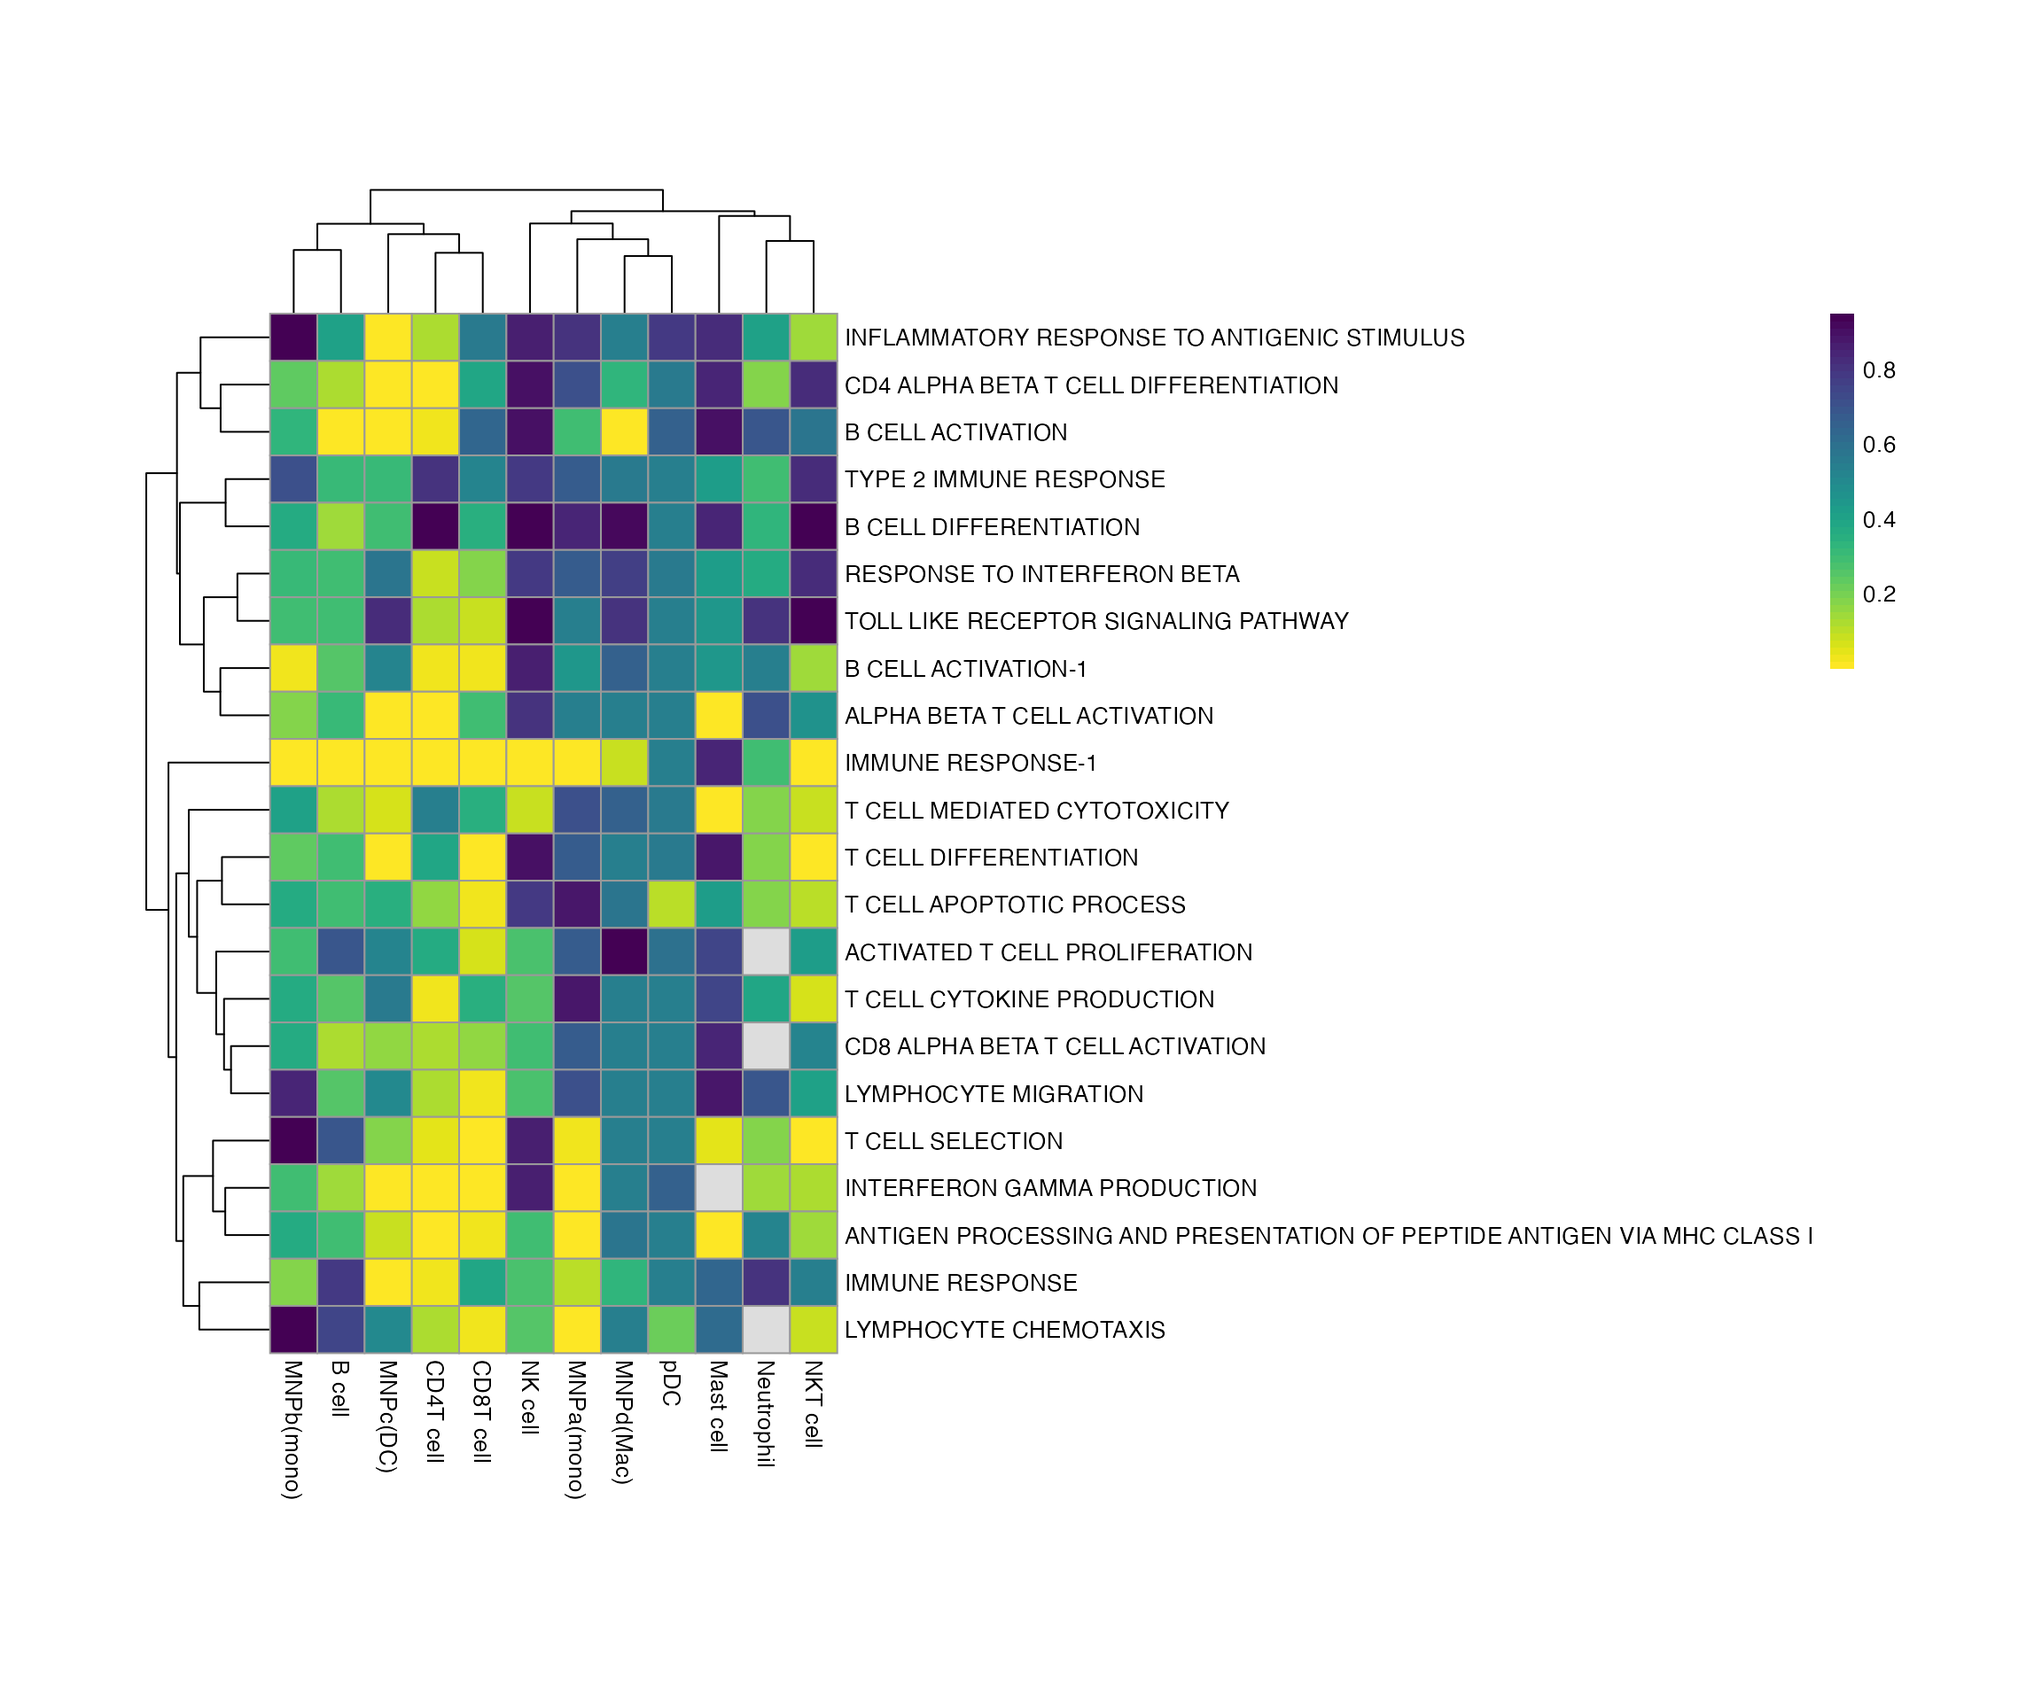
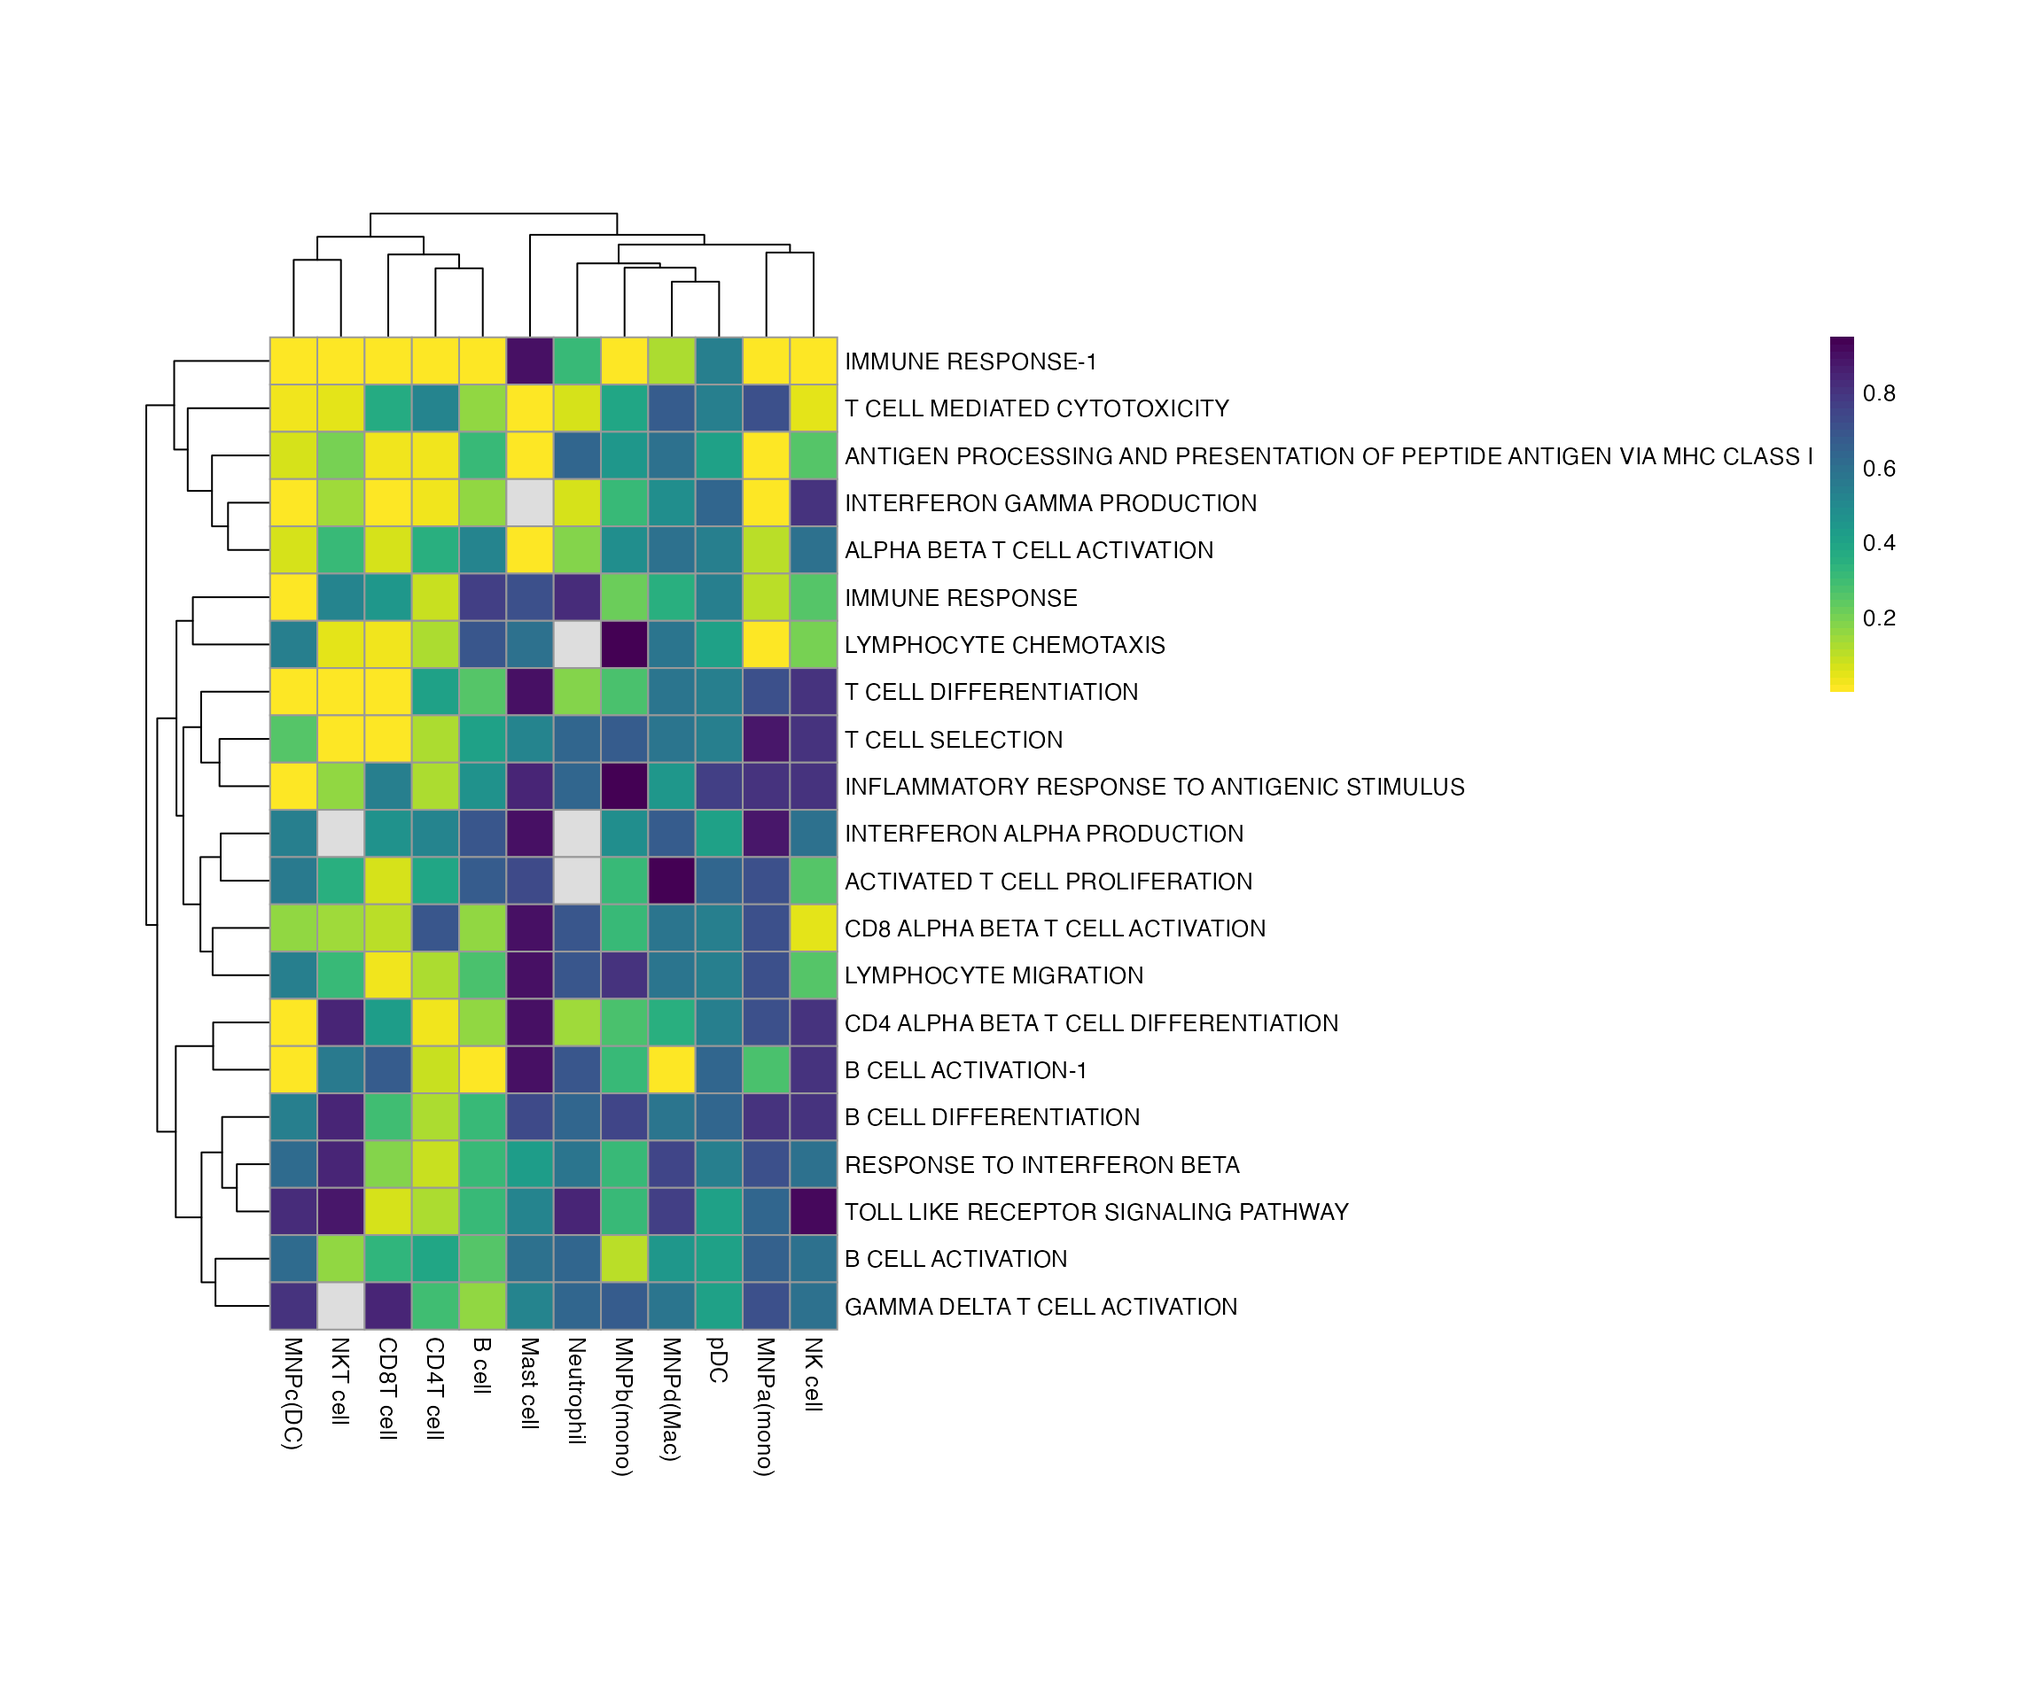
Built site for bowerbird: 0.0.2@3ac1d0c

diff --git a/articles/bowerbird_vignette.html b/articles/bowerbird_vignette.html
@@ -159,13 +159,7 @@
 <span class="va">bwr</span> <span class="op">&lt;-</span> <span class="fu">bower</span><span class="op">(</span><span class="va">geneset</span><span class="op">)</span>
 <span class="va">bwr</span> <span class="op">&lt;-</span> <span class="fu"><a href="../reference/snn_graph.html">snn_graph</a></span><span class="op">(</span><span class="va">bwr</span><span class="op">)</span>
 <span class="va">bwr</span> <span class="op">&lt;-</span> <span class="fu"><a href="../reference/find_clusters.html">find_clusters</a></span><span class="op">(</span><span class="va">bwr</span><span class="op">)</span>
-<span class="va">bwr</span> <span class="op">&lt;-</span> <span class="fu">summarize_clusters</span><span class="op">(</span><span class="va">bwr</span><span class="op">)</span>
-<span class="co">#&gt; Downloading udpipe model from https://raw.githubusercontent.com/jwijffels/udpipe.models.ud.2.5/master/inst/udpipe-ud-2.5-191206/english-ewt-ud-2.5-191206.udpipe to /var/folders/24/8k48jl6d249_n_qfxwsl6xvm0000gn/T//RtmpyaUieC/english-ewt-ud-2.5-191206.udpipe</span>
-<span class="co">#&gt;  - This model has been trained on version 2.5 of data from https://universaldependencies.org</span>
-<span class="co">#&gt;  - The model is distributed under the CC-BY-SA-NC license: https://creativecommons.org/licenses/by-nc-sa/4.0</span>
-<span class="co">#&gt;  - Visit https://github.com/jwijffels/udpipe.models.ud.2.5 for model license details.</span>
-<span class="co">#&gt;  - For a list of all models and their licenses (most models you can download with this package have either a CC-BY-SA or a CC-BY-SA-NC license) read the documentation at ?udpipe_download_model. For building your own models: visit the documentation by typing vignette('udpipe-train', package = 'udpipe')</span>
-<span class="co">#&gt; Downloading finished, model stored at '/var/folders/24/8k48jl6d249_n_qfxwsl6xvm0000gn/T//RtmpyaUieC/english-ewt-ud-2.5-191206.udpipe'</span></code></pre></div>
+<span class="va">bwr</span> <span class="op">&lt;-</span> <span class="fu">summarize_clusters</span><span class="op">(</span><span class="va">bwr</span><span class="op">)</span></code></pre></div>
 <p>Or extracting from <code>msigdbr</code>.</p>
 <div class="sourceCode" id="cb7"><pre class="downlit sourceCode r">
 <code class="sourceCode R"><span class="kw"><a href="https://rdrr.io/r/base/library.html">library</a></span><span class="op">(</span><span class="va"><a href="https://igordot.github.io/msigdbr/">msigdbr</a></span><span class="op">)</span>
@@ -180,54 +174,47 @@
 <span class="va">bwr</span> <span class="op">&lt;-</span> <span class="fu">bower</span><span class="op">(</span><span class="va">gs_list</span><span class="op">)</span>
 <span class="va">bwr</span> <span class="op">&lt;-</span> <span class="fu"><a href="../reference/snn_graph.html">snn_graph</a></span><span class="op">(</span><span class="va">bwr</span><span class="op">)</span>
 <span class="va">bwr</span> <span class="op">&lt;-</span> <span class="fu"><a href="../reference/find_clusters.html">find_clusters</a></span><span class="op">(</span><span class="va">bwr</span><span class="op">)</span>
-<span class="va">bwr</span> <span class="op">&lt;-</span> <span class="fu">summarize_clusters</span><span class="op">(</span><span class="va">bwr</span><span class="op">)</span>
-<span class="co">#&gt; Downloading udpipe model from https://raw.githubusercontent.com/jwijffels/udpipe.models.ud.2.5/master/inst/udpipe-ud-2.5-191206/english-ewt-ud-2.5-191206.udpipe to /var/folders/24/8k48jl6d249_n_qfxwsl6xvm0000gn/T//RtmpyaUieC/english-ewt-ud-2.5-191206.udpipe</span>
-<span class="co">#&gt;  - This model has been trained on version 2.5 of data from https://universaldependencies.org</span>
-<span class="co">#&gt;  - The model is distributed under the CC-BY-SA-NC license: https://creativecommons.org/licenses/by-nc-sa/4.0</span>
-<span class="co">#&gt;  - Visit https://github.com/jwijffels/udpipe.models.ud.2.5 for model license details.</span>
-<span class="co">#&gt;  - For a list of all models and their licenses (most models you can download with this package have either a CC-BY-SA or a CC-BY-SA-NC license) read the documentation at ?udpipe_download_model. For building your own models: visit the documentation by typing vignette('udpipe-train', package = 'udpipe')</span>
-<span class="co">#&gt; Downloading finished, model stored at '/var/folders/24/8k48jl6d249_n_qfxwsl6xvm0000gn/T//RtmpyaUieC/english-ewt-ud-2.5-191206.udpipe'</span></code></pre></div>
+<span class="va">bwr</span> <span class="op">&lt;-</span> <span class="fu">summarize_clusters</span><span class="op">(</span><span class="va">bwr</span><span class="op">)</span></code></pre></div>
 <p>So what has actually happened? Well, basically <code>bowerbird</code> has learnt which gene sets share more genes with each other, clustered them together and learnt a new summary term.</p>
 <div class="sourceCode" id="cb8"><pre class="downlit sourceCode r">
 <code class="sourceCode R"><span class="va">bwr</span>
 <span class="co">#&gt; BOWER class</span>
 <span class="co">#&gt; number of genesets:  265 </span>
 <span class="co">#&gt; genesets kNN Graph: </span>
-<span class="co">#&gt; IGRAPH 5b47513 UNW- 265 843 -- </span>
+<span class="co">#&gt; IGRAPH e60359f UNW- 265 843 -- </span>
 <span class="co">#&gt; + attr: name (v/c), cluster (v/n), geneset_size (v/n), terms (v/c),</span>
 <span class="co">#&gt; | labels (v/c), weight (e/n)</span>
-<span class="co">#&gt; + edges from 5b47513 (vertex names):</span>
+<span class="co">#&gt; + edges from e60359f (vertex names):</span>
 <span class="co">#&gt; [1] GOBP_ACTIVATED_T_CELL_PROLIFERATION--GOBP_CD8_POSITIVE_ALPHA_BETA_T_CELL_DIFFERENTIATION          </span>
 <span class="co">#&gt; [2] GOBP_ACTIVATED_T_CELL_PROLIFERATION--GOBP_NEGATIVE_REGULATION_OF_ACTIVATED_T_CELL_PROLIFERATION   </span>
 <span class="co">#&gt; [3] GOBP_ACTIVATED_T_CELL_PROLIFERATION--GOBP_NEGATIVE_REGULATION_OF_LYMPHOCYTE_DIFFERENTIATION       </span>
 <span class="co">#&gt; [4] GOBP_ACTIVATED_T_CELL_PROLIFERATION--GOBP_NEGATIVE_REGULATION_OF_T_CELL_RECEPTOR_SIGNALING_PATHWAY</span>
 <span class="co">#&gt; [5] GOBP_ACTIVATION_OF_IMMUNE_RESPONSE --GOBP_ACTIVATION_OF_INNATE_IMMUNE_RESPONSE                    </span>
 <span class="co">#&gt; + ... omitted several edges</span>
-<span class="co">#&gt; number of geneset clusters:  22 </span>
+<span class="co">#&gt; number of geneset clusters:  21 </span>
 <span class="co">#&gt; Core genes:</span>
 <span class="co">#&gt;  First six genes shown</span>
+<span class="co">#&gt;   CD8 ALPHA BETA T CELL ACTIVATION : HLA-E FCGR2B IL20RB GATA3 ADCYAP1 BTK ...</span>
 <span class="co">#&gt;   CD4 ALPHA BETA T CELL DIFFERENTIATION : ANXA1 ATP7A BATF BCL3 BCL6 CBFB ...</span>
 <span class="co">#&gt;   IMMUNE RESPONSE-1 : AIM2 BCL10 BTRC CARD11 CARD9 CD209 ...</span>
-<span class="co">#&gt;   TYPE 2 IMMUNE RESPONSE : IL4 PLCL2 TLR4 IL18 IL18R1 IL4R ...</span>
 <span class="co">#&gt;   IMMUNE RESPONSE : CLNK HLA-E HLA-F IFNA2 IFNB1 IL18 ...</span>
-<span class="co">#&gt;   RESPONSE TO INTERFERON BETA : BCL2L11 HIF1A MEF2C ADA SOS1 SOS2 ...</span>
 <span class="co">#&gt;   T CELL MEDIATED CYTOTOXICITY : HLA-A HLA-B HLA-C HLA-E HLA-F HLA-G ...</span>
-<span class="co">#&gt;   CD8 ALPHA BETA T CELL ACTIVATION : HLA-E GATA3 ADCYAP1 BTK C3 CCR7 ...</span>
+<span class="co">#&gt;   B CELL ACTIVATION : ADA BAX BCL6 BLK BTK CD74 ...</span>
+<span class="co">#&gt;   RESPONSE TO INTERFERON BETA : BCL2L11 HIF1A MEF2C ADA SOS1 SOS2 ...</span>
+<span class="co">#&gt;   T CELL SELECTION : TOX BCL2 IL12B IL12RB1 IL23A IL23R ...</span>
 <span class="co">#&gt;   T CELL DIFFERENTIATION : FCGR2B FGL2 HLA-DOA LILRB2 THBS1 BMP4 ...</span>
 <span class="co">#&gt;   INTERFERON GAMMA PRODUCTION : ABCB9 ACE ACTR10 ACTR1A ACTR1B AP1B1 ...</span>
+<span class="co">#&gt;   INTERFERON ALPHA PRODUCTION : IL18 IL18R1 IL4 TLR4 SYK IL13 ...</span>
 <span class="co">#&gt;   TOLL LIKE RECEPTOR SIGNALING PATHWAY : CACTIN PTPRS TICAM1 TLR3 TLR4 TLR9 ...</span>
-<span class="co">#&gt;   B CELL ACTIVATION-1 : ADA BAX BCL6 BLK BTK CD74 ...</span>
-<span class="co">#&gt;   T CELL CYTOKINE PRODUCTION : KLRC1 LILRB1 NOD2 PTPRC EGR3 LEF1 ...</span>
-<span class="co">#&gt;   B CELL DIFFERENTIATION : IL10 TLR9 SYK ADA BCL3 C17orf99 ...</span>
-<span class="co">#&gt;   ALPHA BETA T CELL ACTIVATION : AGER ANXA1 ARG2 ATP7A BATF BCL3 ...</span>
-<span class="co">#&gt;   LYMPHOCYTE CHEMOTAXIS : CCL2 CCL3 CCL4 CCL5 CCL7 CXCL14 ...</span>
-<span class="co">#&gt;   B CELL ACTIVATION : ADA ADAM17 BATF BCL3 BCL6 BTK ...</span>
 <span class="co">#&gt;   ACTIVATED T CELL PROLIFERATION : LILRB4 CD24 CD274 FYN HHLA2 ICOSLG ...</span>
-<span class="co">#&gt;   T CELL SELECTION : TOX BCL2 BATF CTSL FOXP3 IL12B ...</span>
+<span class="co">#&gt;   B CELL DIFFERENTIATION : ABL1 ADA BCL3 BCL6 C17orf99 CD19 ...</span>
+<span class="co">#&gt;   B CELL ACTIVATION-1 : ADA ADAM17 BATF BCL3 BCL6 BTK ...</span>
+<span class="co">#&gt;   LYMPHOCYTE CHEMOTAXIS : CCL2 CCL3 CCL4 CCL5 CCL7 CXCL14 ...</span>
+<span class="co">#&gt;   ALPHA BETA T CELL ACTIVATION : AGER ANXA1 ARG2 ATP7A BATF BCL3 ...</span>
 <span class="co">#&gt;   INFLAMMATORY RESPONSE TO ANTIGENIC STIMULUS : BTK C3 CD28 HLA-E LTA NOD2 ...</span>
-<span class="co">#&gt;   T CELL APOPTOTIC PROCESS : ADA AKT1 BAK1 BAX BCL10 BCL2L11 ...</span>
-<span class="co">#&gt;   LYMPHOCYTE MIGRATION : ADAM10 ADAM17 ADAM8 AIF1 APP CCL20 ...</span>
-<span class="co">#&gt;   ANTIGEN PROCESSING AND PRESENTATION OF PEPTIDE ANTIGEN VIA MHC CLASS I : ABCB9 AZGP1 B2M ERAP1 ERAP2 HFE ...</span></code></pre></div>
+<span class="co">#&gt;   GAMMA DELTA T CELL ACTIVATION : LILRB1 KLRC1 PTPRC EGR3 LEF1 NCKAP1L ...</span>
+<span class="co">#&gt;   ANTIGEN PROCESSING AND PRESENTATION OF PEPTIDE ANTIGEN VIA MHC CLASS I : ABCB9 AZGP1 B2M ERAP1 ERAP2 HFE ...</span>
+<span class="co">#&gt;   LYMPHOCYTE MIGRATION : ADAM10 ADAM17 ADAM8 AIF1 APP CCL20 ...</span></code></pre></div>
 <p>We can visualise it with a simple plot</p>
 <div class="sourceCode" id="cb9"><pre class="downlit sourceCode r">
 <code class="sourceCode R"><span class="fu"><a href="../reference/plot_graph.html">plot_graph</a></span><span class="op">(</span><span class="va">bwr</span>, colorby <span class="op">=</span> <span class="st">'cluster'</span>, node.size <span class="op">=</span> <span class="st">'geneset_size'</span><span class="op">)</span></code></pre></div>

diff --git a/reference/misc.html b/reference/misc.html
@@ -152,6 +152,10 @@
 
 <span class='fu'>.retrieve_gsea</span><span class='op'>(</span><span class='va'>res</span>, <span class='va'>query</span><span class='op'>)</span>
 
+<span class='fu'>get_optional_data_filepath</span><span class='op'>(</span><span class='va'>filename</span>, mustWork <span class='op'>=</span> <span class='cn'>TRUE</span><span class='op'>)</span>
+
+<span class='fu'>check_udpipemodel</span><span class='op'>(</span><span class='op'>)</span>
+
 <span class='fu'>.read_geneset</span><span class='op'>(</span><span class='va'>x</span>, <span class='va'>...</span><span class='op'>)</span></pre>
 
     <h2 class="hasAnchor" id="arguments"><a class="anchor" href="#arguments"></a>Arguments</h2>
@@ -245,12 +249,22 @@
       <th>query</th>
       <td><p>column name in fgsea results.</p></td>
     </tr>
+    <tr>
+      <th>filename, </th>
+      <td><p>string. The filename of the file in the package cache.</p></td>
+    </tr>
+    <tr>
+      <th>mustWork, </th>
+      <td><p>logical. Whether an error should be created if the file does not exist. If mustWork=FALSE and the file does not exist, the empty string is returned.</p></td>
+    </tr>
     </table>
 
     <h2 class="hasAnchor" id="value"><a class="anchor" href="#value"></a>Value</h2>
 
     <p>appropriate single cell object for enrichment analysis</p>
 <p>sorted ranked gene list.</p>
+<p>Access a single file from the package cache by its file name.</p>
+<p>Access a single file from the package cache by its file name.</p>
 
   </div>
   <div class="col-md-3 hidden-xs hidden-sm" id="pkgdown-sidebar">

diff --git a/reference/index.html b/reference/index.html
@@ -164,7 +164,7 @@
       </tr><tr>
         
         <td>
-          <p><code><a href="misc.html">.is_blank()</a></code> <code><a href="misc.html">.sanitize()</a></code> <code><a href="misc.html">.filter_geneset()</a></code> <code><a href="misc.html">.emptyBOWER()</a></code> <code><a href="misc.html">.create_graph()</a></code> <code><a href="misc.html">.graph_to_data()</a></code> <code><a href="misc.html">.closest_to_centroid()</a></code> <code><a href="misc.html">.typecheck()</a></code> <code><a href="misc.html">.makeRankGeneList()</a></code> <code><a href="misc.html">range01()</a></code> <code><a href="misc.html">.retrieve_gsea()</a></code> <code><a href="misc.html">.read_geneset()</a></code> </p>
+          <p><code><a href="misc.html">.is_blank()</a></code> <code><a href="misc.html">.sanitize()</a></code> <code><a href="misc.html">.filter_geneset()</a></code> <code><a href="misc.html">.emptyBOWER()</a></code> <code><a href="misc.html">.create_graph()</a></code> <code><a href="misc.html">.graph_to_data()</a></code> <code><a href="misc.html">.closest_to_centroid()</a></code> <code><a href="misc.html">.typecheck()</a></code> <code><a href="misc.html">.makeRankGeneList()</a></code> <code><a href="misc.html">range01()</a></code> <code><a href="misc.html">.retrieve_gsea()</a></code> <code><a href="misc.html">get_optional_data_filepath()</a></code> <code><a href="misc.html">check_udpipemodel()</a></code> <code><a href="misc.html">.read_geneset()</a></code> </p>
         </td>
         <td><p>misc</p></td>
       </tr><tr>
